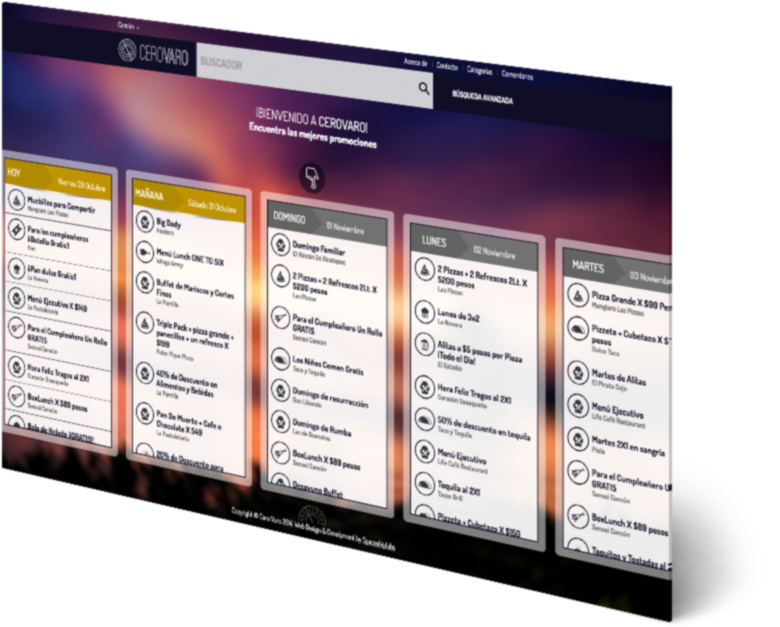
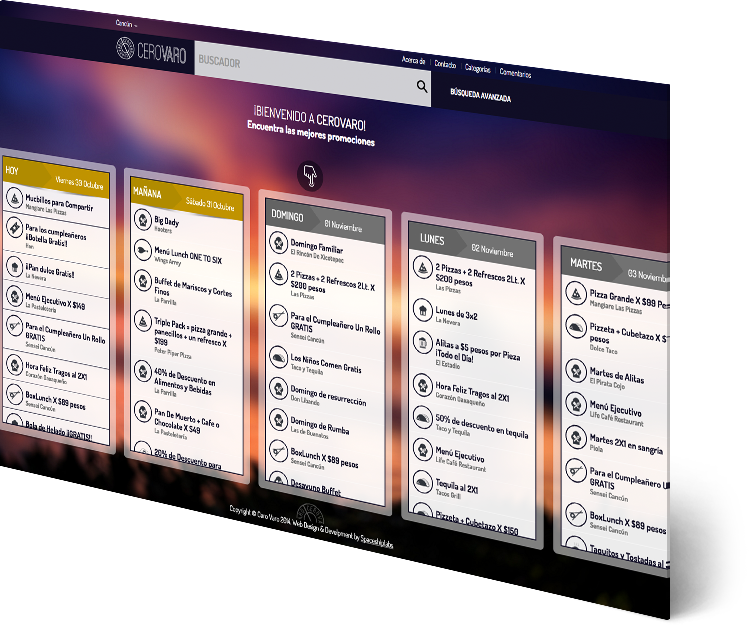
ux landings

Changed region(s): [[0.0, 0.0, 0.9507, 1.0], [0.5827, 0.912, 0.7973, 0.9728]]

diff --git a/app/views/ui-ux.html b/app/views/ui-ux.html
@@ -11,16 +11,24 @@
 <div class="info-wrap info-wrap-service info-wrap-ui">
 
   <section class="info-block info-block-ux-design">
-    <div class="container container-md center-content">
-      <h2 class="gradient-title">Diseño de interfaz</h2>
-      <p>El diseño no solo se debe ver bien, si no también debe funcionar bien. Es por eso que al diseñar páginas web o móviles y administradores, ponemos mucho énfasis en todos los detalles para lograr esto.</p>
-    </div>
-    <div class="screens-wrapper container-md">
+    <div class="container container-xxlg nopadding" layout="row" layout-md="column" layout-sm="column">
 
-      <img src="images/landing4.png" class="screen-m screen-m4 wow slideInUp" data-wow-duration="0.4s"  alt="">
-      <img src="images/landing3.png" class="screen-m screen-m3 wow slideInUp" data-wow-duration="0.4s" data-wow-delay="0.2s" data-wow-delay alt="">
-      <img src="images/landing2.png" class="screen-m screen-m2 wow slideInUp" data-wow-duration="0.4s" data-wow-delay="0.4s" alt="">
-      <img src="images/landing1.png" class="screen-m screen-m1 wow slideInUp" data-wow-duration="0.4s" data-wow-delay="0.6s" alt="">
+      <div flex="50" flex-md="100" flex-sm="100" layout="row" layout-align="center center">
+        <div class="container container-sm">
+          <h2 class="gradient-title">Diseño de interfaz</h2>
+          <p>El diseño no solo se debe ver bien, si no también debe funcionar bien. Es por eso que al diseñar páginas web o móviles y administradores, ponemos mucho énfasis en todos los detalles para lograr esto.</p>
+        </div>
+      </div>
+
+      <div flex="50" flex-md="100" flex-sm="100">
+        <div class="screens-wrapper container-smd">
+          <img src="images/landing4.png" class="screen-m screen-m4 wow slideInUp" data-wow-duration="0.4s"  alt="">
+          <img src="images/landing3.png" class="screen-m screen-m3 wow slideInUp" data-wow-duration="0.4s" data-wow-delay="0.2s" data-wow-delay alt="">
+          <img src="images/landing2.png" class="screen-m screen-m2 wow slideInUp" data-wow-duration="0.4s" data-wow-delay="0.4s" alt="">
+          <img src="images/landing1.png" class="screen-m screen-m1 wow slideInUp" data-wow-duration="0.4s" data-wow-delay="0.6s" alt="">
+        </div>
+      </div>
+
     </div>
   </section>
 

diff --git a/app/styles/main.css b/app/styles/main.css
@@ -1806,6 +1806,7 @@ input:-webkit-autofill {
 .info-wrap-ui .info-block-ux-design{
   overflow: hidden;
 }
+.info-wrap-ui .info-block-ux-design h2{text-align: left;}
 .info-wrap-ui .screens-wrapper{
   position: relative;
   min-height: 500px;
@@ -1814,21 +1815,22 @@ input:-webkit-autofill {
   position: absolute;
   right: 0;
   top: 0;
+  max-width: 80%;
 }
 .screens-wrapper .screen-m1{
   z-index: 4;
-  right: 0%;
+  right: 30%;
   top: 30%;
 }
 .screens-wrapper .screen-m2{
   z-index: 3;
-  right: -10%;
+  right: 10%;
   top: 20%;
 
 }
 .screens-wrapper .screen-m3{
   z-index: 2;
-  right: -20%;
+  right: -10%;
   top: 10%;
 }
 .screens-wrapper .screen-m4{
